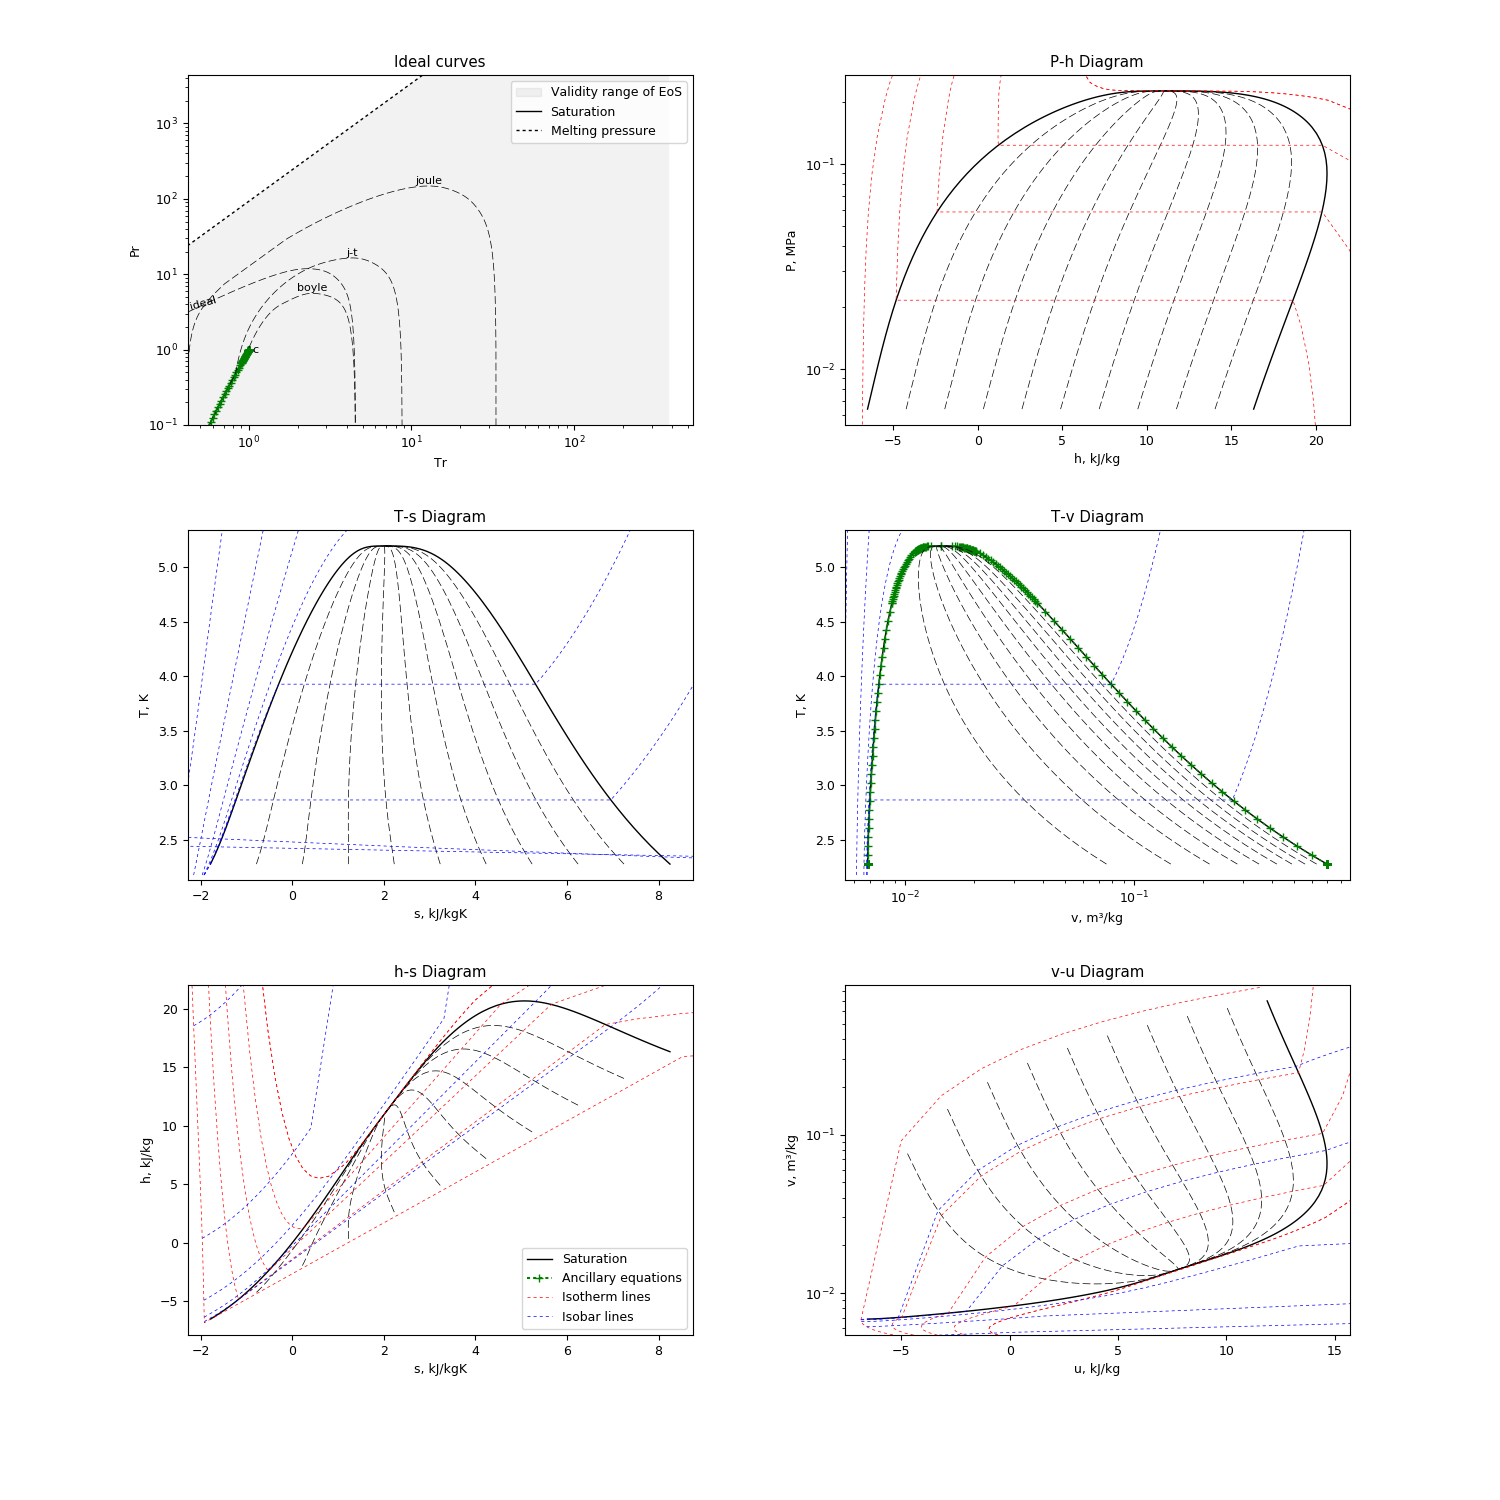
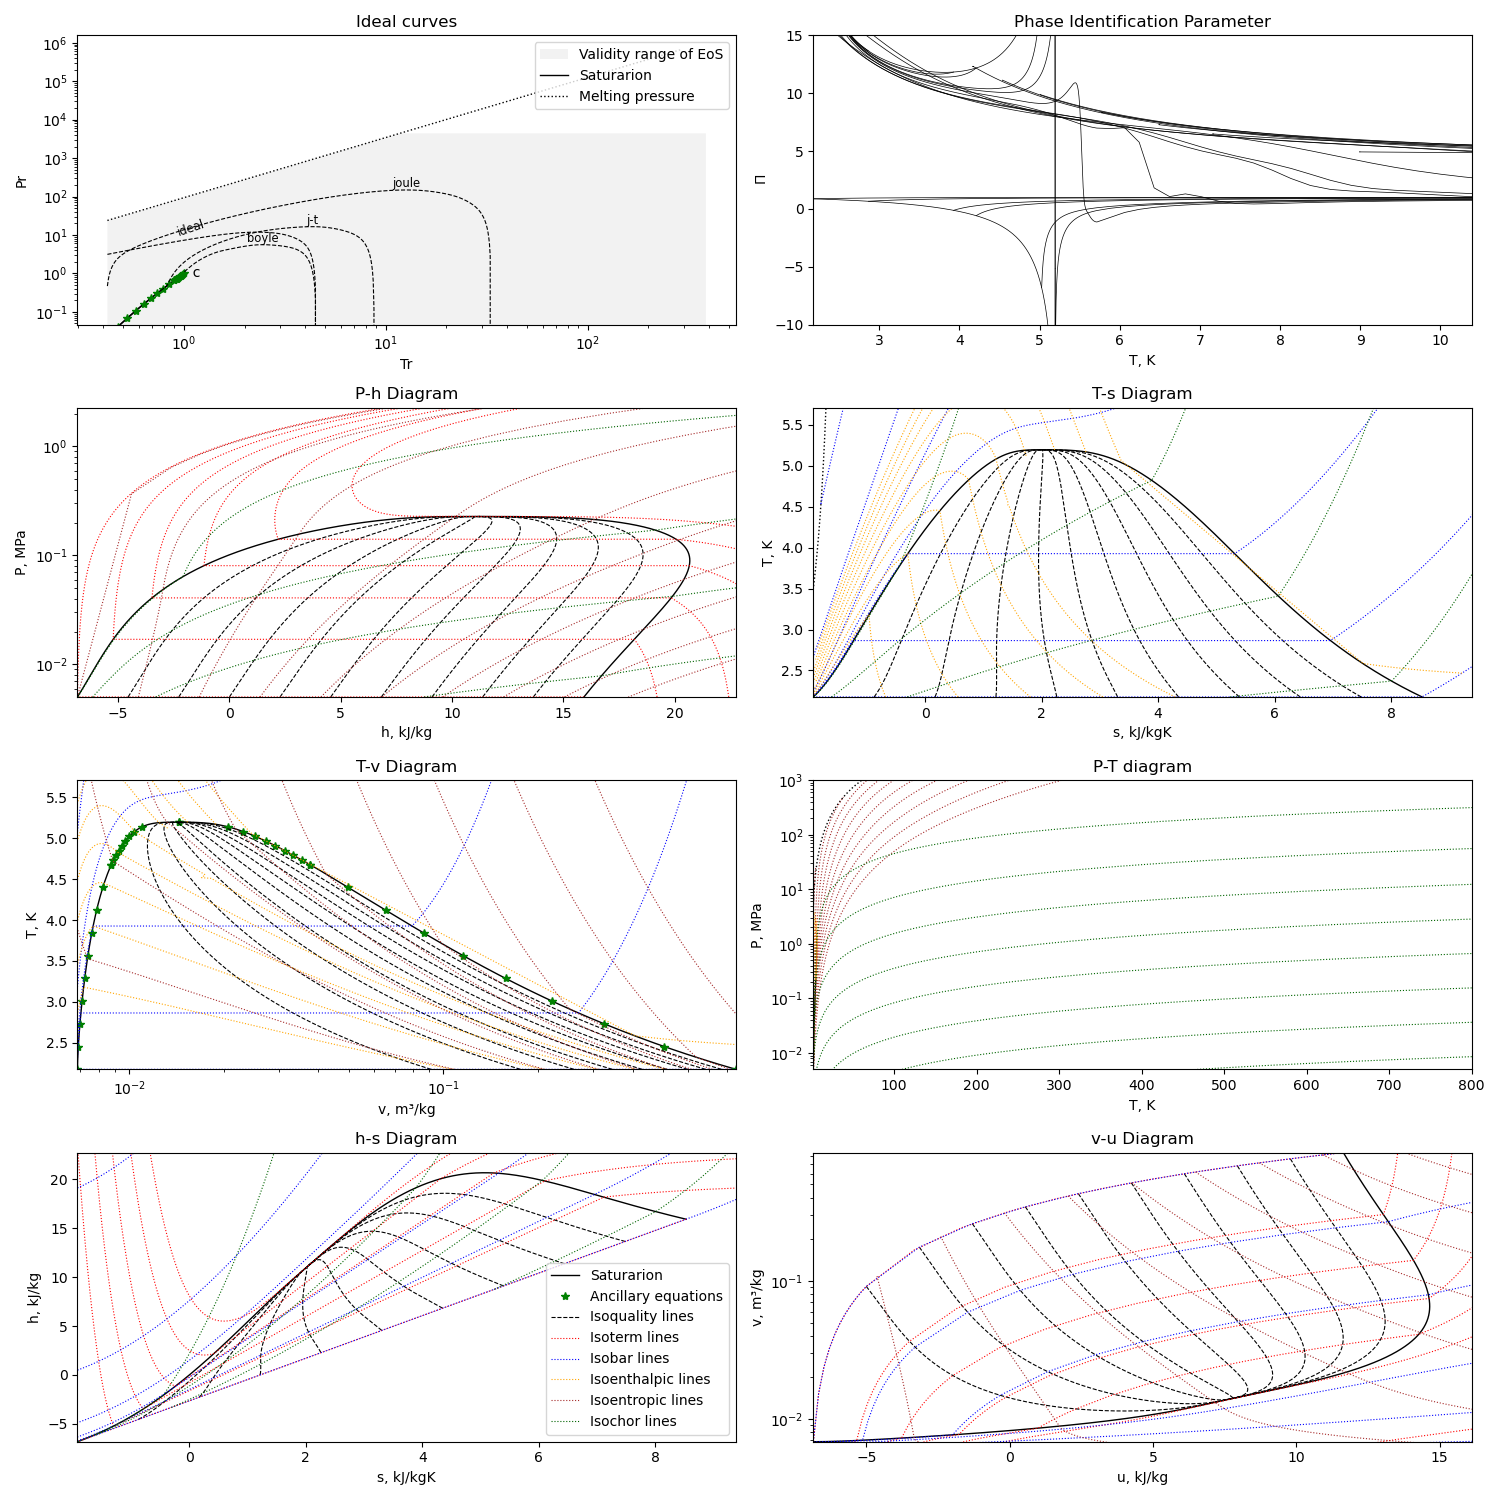
Add noble gases mEoS image for documentation

diff --git a/.script/plotMEoS.py b/.script/plotMEoS.py
@@ -54,17 +54,16 @@ args = parser.parse_args()
 ###############################################################################
 
 # Point count for line, high value get more definition but slow calculate time
-points = 100
+points = 10
 
 # Define standard to use in plot, IAPWS95 very slow!
-fluid = mEoS.NH3
+fluid = mEoS.Ar
 
 # fluid = IAPWS95
 # fluid._constants["Tmin"] = IAPWS95.Tt
 # fluid._constants["Tmax"] = IAPWS95.Tc
 # fluid._constants["Pmax"] = 1e8
 
-Tc = fluid.eq[0].get("Tc", fluid.Tc)
 
 # Use the input parameter if given
 if args.cmp:
@@ -72,8 +71,10 @@ if args.cmp:
 if args.points:
     points = args.points
 
+Tc = fluid.eq[0].get("Tc", fluid.Tc)
+
 Pt = fluid(T=max(fluid.Tt, fluid()._constants["Tmin"]), x=0)
-Pc = fluid(T=Tc * 0.999, x=0)
+Pc = fluid(T=Tc*0.999, x=0)
 Vt = fluid(T=max(fluid.Tt, fluid()._constants["Tmin"]), x=1)
 Vmin = fluid(T=fluid()._constants["Tmax"], P=Pt.P)
 Tmin = fluid()._constants["Tmin"]
@@ -128,8 +129,8 @@ isoP_PIP = np.r_[0.1, 0.2, 0.5, 1, 2, 5, fluid.Pc.MPa, 15, 20, 25, 30, 35, 50,
 isoP_kw = {"ls": ":", "color": "blue", "lw": 0.8}
 
 # # Isoenthalpic lines to plot
-# isoh = np.linspace(hmin, hmax, 10)
-isoh = np.r_[0, 250, 500, 750, 1000, 1250, 1500, 1750]
+isoh = np.linspace(hmin, hmax, 10)
+# isoh = np.r_[0, 250, 500, 750, 1000, 1250, 1500, 1750]
 isoh_kw = {"ls": ":", "color": "orange", "lw": 0.8}
 
 # Isoentropic lines to plot
@@ -137,10 +138,10 @@ isos = np.linspace(smin, smax, 10)
 isos_kw = {"ls": ":", "color": "brown", "lw": 0.8}
 
 # Isochor lines to plot
-# isov = np.logspace(
-#     np.log10(1/fluid()._constants["rhomax"]/fluid.M), np.log10(Vmin.v), 10)
-isov = np.r_[1e-4, 2e-4, 5e-4, 1e-3, 2e-3, 5e-3, 1e-2, 2e-2, 5e-2, 0.1, 0.2,
-             0.5, 1, 2, 5, 10, 20, 50]
+isov = np.logspace(
+    np.log10(1/fluid()._constants["rhomax"]/fluid.M), np.log10(Vmin.v), 10)
+# isov = np.r_[1e-4, 2e-4, 5e-4, 1e-3, 2e-3, 5e-3, 1e-2, 2e-2, 5e-2, 0.1, 0.2,
+#              0.5, 1, 2, 5, 10, 20, 50]
 isov_kw = {"ls": ":", "color": "darkgreen", "lw": 0.8}
 
 # Validity region
@@ -223,14 +224,20 @@ Tl = list(np.concatenate([
 # Melting pressure
 if fluid is not IAPWS95 and fluid._melting:
     print("Calculating melting line...")
-    if fluid is mEoS.NH3:
+    if fluid in (mEoS.NH3, mEoS.Xe):
         Tm = np.logspace(np.log10(fluid._melting1["Tmin"]),
                          np.log10(fluid._melting["Tmax"]), points * 10)
     else:
         Tm = np.logspace(np.log10(fluid._melting["Tmin"]),
                          np.log10(fluid._melting["Tmax"]), points * 10)
     Pm = [fluid._Melting_Pressure(t) for t in Tm]
-    mel = [fluid(T=t, P=p) for t, p in zip(Tm, Pm)]
+    mel = []
+    for t, p in zip(Tm, Pm):
+        Ps = fluid()._Vapor_Pressure(t)
+        if abs(p-Ps)/Ps < 1e-2:
+            mel.append(fluid(T=t, x=0))
+        else:
+            mel.append(fluid(T=t, P=p))
 
     P = []
     T = []
@@ -305,6 +312,7 @@ smax = max(svap)
 smax += abs(smax * 0.1)
 
 ax_PIP.set_ylim(-10, 15)
+ax_PIP.set_xlim(Tmin, 2*fluid.Tc)
 ax_Ph.set_xlim(Pt.h.kJkg, hmax)
 ax_Ph.set_ylim(Pt.P.MPa, Pc.P.MPa * 10)
 ax_Ts.set_xlim(Pt.s.kJkgK, smax)
@@ -508,7 +516,12 @@ for h in isoh:
         if point.status in (1,3):
 
             # Discard point below the melting line
-            if fluid._melting and fluid._melting["Tmin"] < point.T:
+            if fluid in (mEoS.NH3, mEoS.Xe):
+                Tmin = fluid._melting1["Tmin"]
+            else:
+                Tmin = fluid._melting["Tmin"]
+
+            if fluid._melting and Tmin < point.T:
                 pm = fluid()._Melting_Pressure(point.T)
                 if pm < point.P:
 
@@ -519,6 +532,8 @@ for h in isoh:
                     T = fsolve(f_h, point.T)[0]
                     pm = fluid()._Melting_Pressure(T)
                     point = fluid(T=T, P=pm)
+                    pts.append(point)
+                    break
 
             pts.append(point)
 
@@ -561,24 +576,31 @@ for s in isos:
     pts = []
     for t in Tl:
         point = fluid(T=t, s=s*1000)
-        if point.status == 1:
 
+        if point.status in (1,3):
             # Discard point over the melting line
-            if fluid._melting:
+            if fluid in (mEoS.NH3, mEoS.Xe):
+                Tmin = fluid._melting1["Tmin"]
+            else:
+                Tmin = fluid._melting["Tmin"]
+
+            if fluid._melting and Tmin < point.T:
                 pm = fluid()._Melting_Pressure(point.T)
-                if pm < point.P and point.x == 1:
+                if pm < point.P:
 
                     # Fuction to find the intersection between isoentropic
                     # line and melting line
                     def f_s(ti):
+                        ti = max(ti, Tmin)
                         pm = fluid()._Melting_Pressure(ti)
-                        if pm < 0:
-                            pm = 1e-10
                         return fluid(T=ti, P=pm).s.kJkgK-s
 
                     T = fsolve(f_s, point.T)
                     pm = fluid()._Melting_Pressure(T)
                     point = fluid(T=T, P=pm)
+                    if point.status in (1,3):
+                        pts.append(point)
+
                     break
 
             # Add saturation point and near to that

diff --git a/lib/mEoS/He.py b/lib/mEoS/He.py
@@ -90,8 +90,7 @@ class He(MEoS):
         "gamma3": [1.1475, 1.7036, 1.6795, 0.9512, 4.475, 2.7284, 1.7167,
                    1.5237, 0.7649],
         "epsilon3": [0.912, 0.79, 0.90567, 5.1136, 3.6022, 0.6488, 4.2753,
-                     2.744, 0.8736],
-        "nr4": []}
+                     2.744, 0.8736]}
 
     mccarty = {
         "__type__": "Helmholtz",

diff --git a/lib/mEoS/Ne.py b/lib/mEoS/Ne.py
@@ -25,7 +25,7 @@ from scipy.constants import pi, Avogadro
 
 from lib import unidades
 from lib.meos import MEoS
-from lib.mEoS import N2
+from lib.mEoS.N2 import N2
 
 
 class Ne(MEoS):

diff --git a/lib/mEoS/Kr.py b/lib/mEoS/Kr.py
@@ -22,7 +22,7 @@ from unittest import TestCase
 
 from lib import unidades
 from lib.meos import MEoS
-from lib.mEoS import N2
+from lib.mEoS.N2 import N2
 
 
 class Kr(MEoS):
